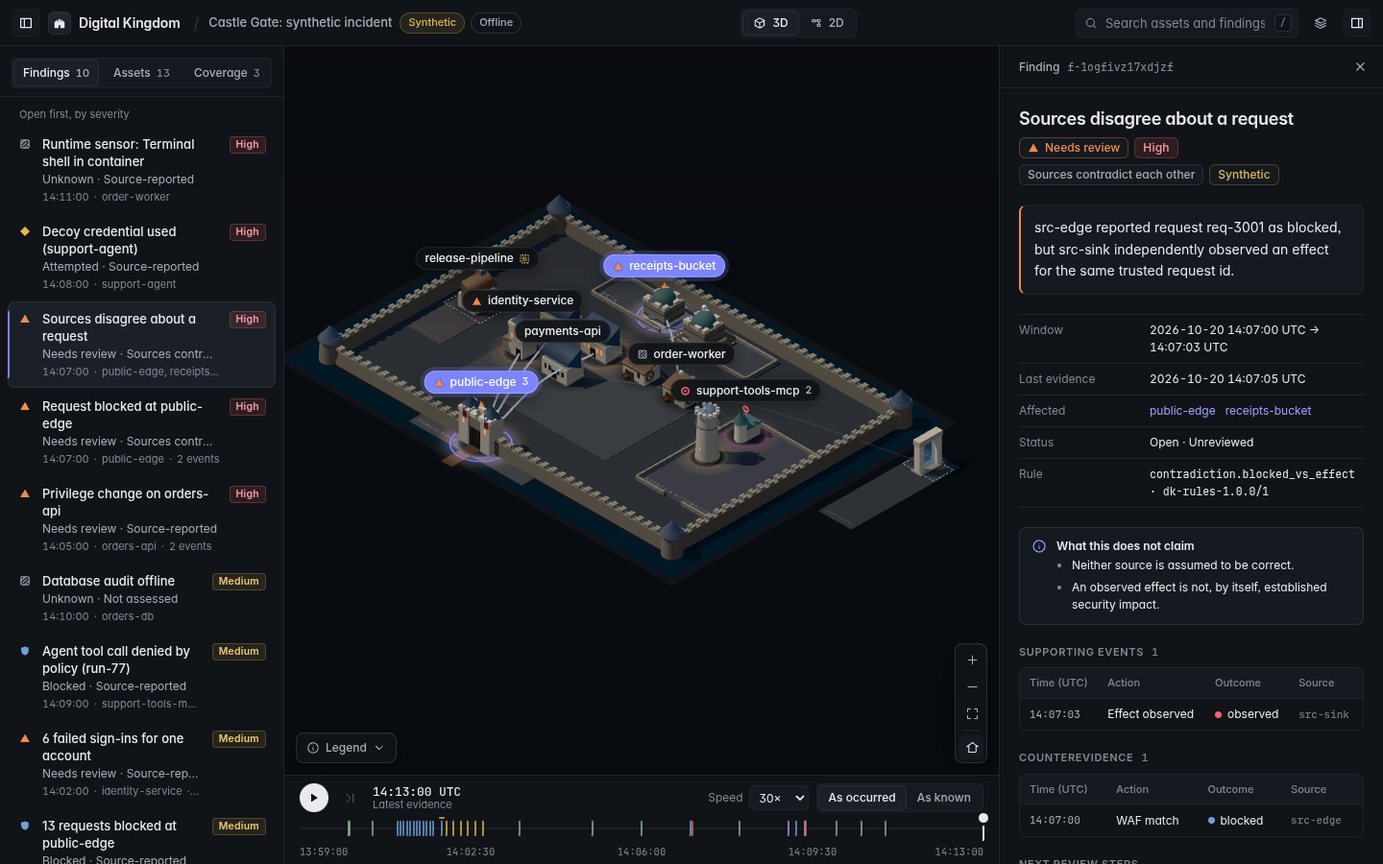
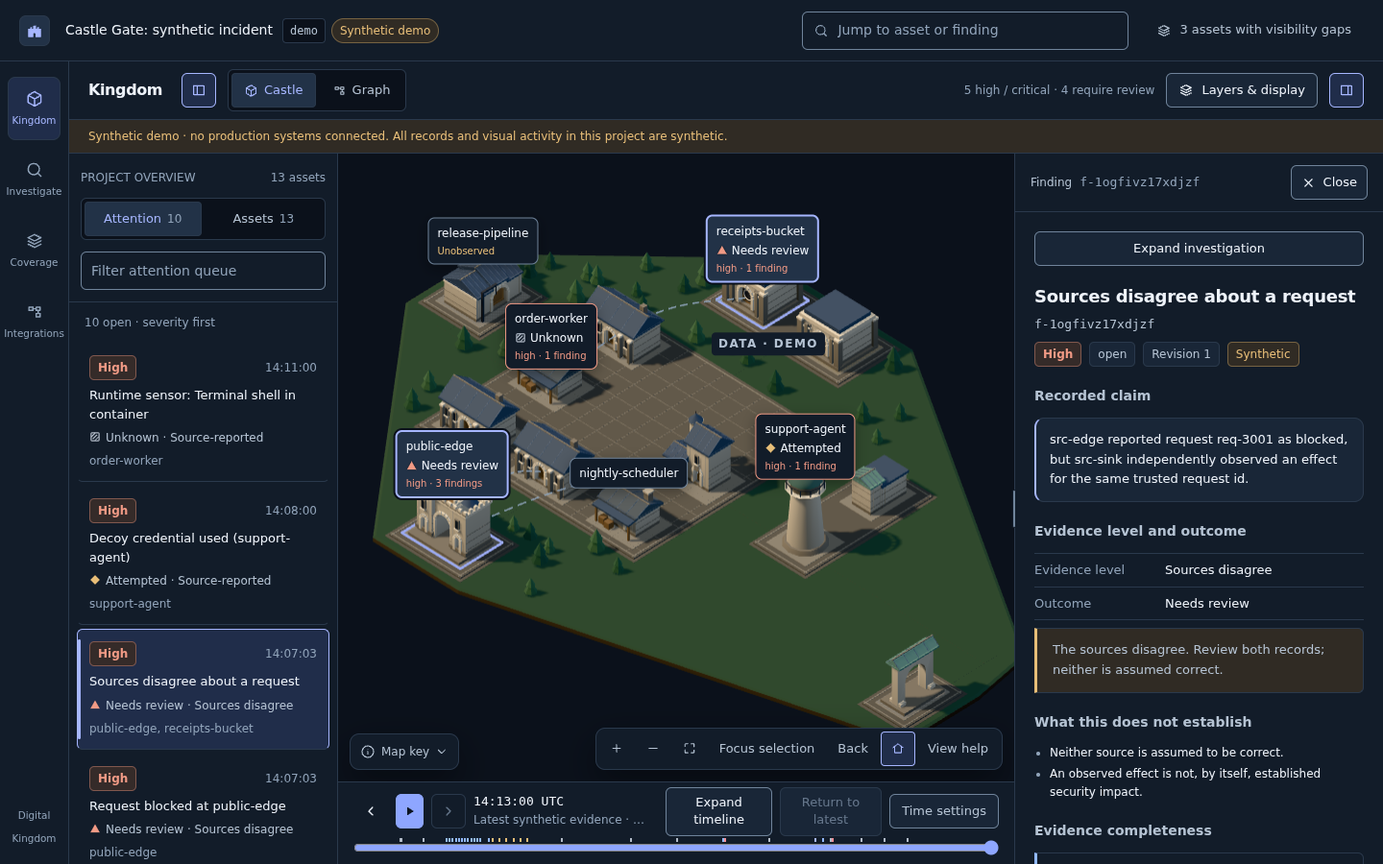
castle: visual refresh (crenellated gatehouse, turret, buttresses, palette, contact shading, lawn island, trees, lighting), compact camera tools, manifest script; README/CHANGELOG and screenshots updated

diff --git a/apps/web/src/castle/geometry.ts b/apps/web/src/castle/geometry.ts
@@ -5,7 +5,11 @@ import { MODULE_CATALOG, type ModuleId } from "@dk/contracts";
 export type DetailLevel = "low" | "medium" | "high";
 export type ArchitectureGroup = "structure" | "roof" | "interior-structure" | "detail-static";
 type V3 = [number, number, number];
-const STONE = "#C5C0B5", EDGE = "#D8D1C2", BASE = "#8F9395", ROOF = "#465769", IRON = "#444A52", WOOD = "#81715D", DARK = "#39414A", BRONZE = "#718C8B";
+const STONE = "#CEC5B2", EDGE = "#E2D8C3", BASE = "#8E877A", ROOF = "#4B5B70", SEAM = "#61728A", IRON = "#3E434A", WOOD = "#8A6E50", DARK = "#2C3540", BRONZE = "#6F948A";
+/** Deterministic, status-independent tonal variation: a ±4% per-part shift (masonry courses, roof
+ * slates) and a baked ground-contact darkening so buildings sit on the terrace instead of floating. */
+const tone = (i: number) => { const x = Math.sin(i * 12.9898 + 78.233) * 43758.5453; return 0.96 + (x - Math.floor(x)) * 0.08; };
+const contact = (y: number) => 0.74 + 0.26 * Math.min(1, Math.max(0, y / 1.1));
 export interface ModuleGeometry { groups: Partial<Record<ArchitectureGroup, THREE.BufferGeometry>>; bounds: THREE.Box3; triangles: number; }
 
 /** Original editable architectural construction. Each group is merged, with vertex colour variation,
@@ -13,6 +17,7 @@ export interface ModuleGeometry { groups: Partial<Record<ArchitectureGroup, THRE
  * is bounded by the ten known IDs × three LODs and shared for the application lifetime. */
 class Builder {
   parts: Record<ArchitectureGroup, THREE.BufferGeometry[]> = { structure: [], roof: [], "interior-structure": [], "detail-static": [] };
+  private serial = 0;
   constructor(readonly lod: DetailLevel) {}
   get segments() { return this.lod === "high" ? 24 : this.lod === "medium" ? 12 : 6; }
   add(g: THREE.BufferGeometry, color: string, p: V3 = [0, 0, 0], group: ArchitectureGroup = "structure", r: V3 = [0, 0, 0]) {
@@ -21,8 +26,8 @@ class Builder {
     geo.deleteAttribute("uv");
     const mat = new THREE.Matrix4().compose(new THREE.Vector3(...p), new THREE.Quaternion().setFromEuler(new THREE.Euler(...r)), new THREE.Vector3(1, 1, 1));
     geo.applyMatrix4(mat);
-    const c = new THREE.Color(color), n = geo.getAttribute("position").count, colors = new Float32Array(n * 3);
-    for (let i = 0; i < n; i++) { colors[i * 3] = c.r; colors[i * 3 + 1] = c.g; colors[i * 3 + 2] = c.b; }
+    const c = new THREE.Color(color).multiplyScalar(tone(++this.serial)), pos = geo.getAttribute("position"), n = pos.count, colors = new Float32Array(n * 3);
+    for (let i = 0; i < n; i++) { const k = contact(pos.getY(i)); colors[i * 3] = c.r * k; colors[i * 3 + 1] = c.g * k; colors[i * 3 + 2] = c.b * k; }
     geo.setAttribute("color", new THREE.BufferAttribute(colors, 3));
     this.parts[group].push(geo);
   }
@@ -79,9 +84,29 @@ class Builder {
       for (const side of [-1, 1]) {
         this.box([w + 0.08, 0.07, 0.07], [p[0], p[1] + rise, p[2]], BASE, "roof");
         const count = this.lod === "high" ? Math.ceil(w / 0.32) : 4;
-        for (let i = 0; i <= count; i++) this.box([0.025, 0.025, length], [p[0] - w / 2 + i * w / count, p[1] + rise / 2 + 0.025, p[2] + side * d / 4], "#607182", "roof", [side * angle, 0, 0]);
+        for (let i = 0; i <= count; i++) this.box([0.025, 0.025, length], [p[0] - w / 2 + i * w / count, p[1] + rise / 2 + 0.025, p[2] + side * d / 4], SEAM, "roof", [side * angle, 0, 0]);
       }
     }
+  }
+  /** Crenellated parapet on a rectangle's perimeter: merlons at medium/high, one band at low. */
+  parapet(cx: number, cz: number, w: number, d: number, y: number, h = 0.24, t = 0.16, color = EDGE) {
+    if (this.lod === "low") {
+      for (const z of [-1, 1]) this.box([w, h * 0.6, t], [cx, y + h * 0.3, cz + z * (d / 2 - t / 2)], color, "detail-static");
+      for (const x of [-1, 1]) this.box([t, h * 0.6, d - 2 * t], [cx + x * (w / 2 - t / 2), y + h * 0.3, cz], color, "detail-static");
+      return;
+    }
+    const step = 0.34, mw = 0.19;
+    for (const z of [-1, 1]) { const n = Math.max(2, Math.round(w / step)); for (let i = 0; i < n; i++)
+      this.box([mw, h, t], [cx - w / 2 + mw / 2 + i * (w - mw) / (n - 1), y + h / 2, cz + z * (d / 2 - t / 2)], color, "detail-static"); }
+    for (const x of [-1, 1]) { const n = Math.max(2, Math.round(d / step)); for (let i = 1; i < n - 1; i++)
+      this.box([t, h, mw], [cx + x * (w / 2 - t / 2), y + h / 2, cz - d / 2 + mw / 2 + i * (d - mw) / (n - 1)], color, "detail-static"); }
+    // Continuous wall-walk band under the merlons.
+    for (const z of [-1, 1]) this.box([w, 0.08, t + 0.04], [cx, y + 0.04, cz + z * (d / 2 - t / 2)], BASE, "detail-static");
+  }
+  /** Pyramidal (4 sides) or conical spire roof with a short finial. */
+  spire(r: number, h: number, p: V3, sides = 4, color = ROOF) {
+    this.add(new THREE.ConeGeometry(r, h, sides, 1), color, [p[0], p[1] + h / 2, p[2]], "roof", [0, sides === 4 ? Math.PI / 4 : 0, 0]);
+    if (this.lod !== "low") this.cylinder(0.025, 0.025, 0.16, [p[0], p[1] + h + 0.06, p[2]], IRON, "roof", [0, 0, 0], 5);
   }
   window(x: number, y: number, z: number, w = 0.19, h = 0.42) {
     if (this.lod === "low") return;
@@ -103,15 +128,20 @@ class Builder {
 function gatehouse(b: Builder) {
   b.box([3.8, 0.18, 2.6], [0, 0.09, 0.1], BASE);
   for (const x of [-1.26, 1.26]) {
-    b.hall(1.12, 1.85, 2.9, [x, 0.18, -0.1], 0.3);
+    b.hall(1.12, 1.85, 2.7, [x, 0.18, -0.1], 0.3);
     b.box([1.25, 0.2, 1.98], [x, 0.4, -0.1], BASE);
-    b.gable(1.34, 2.06, 0.78, [x, 3.08, -0.1]);
-    b.window(x, 2.24, 0.87, 0.18, 0.53);
+    // Corbelled crown, crenellated parapet and a slate spire set inside the wall-walk.
+    for (const z of [-1, 1]) b.box([1.3, 0.12, 0.2], [x, 2.94, -0.1 + z * 0.915], EDGE);
+    for (const sx of [-1, 1]) b.box([0.2, 0.12, 1.63], [x + sx * 0.55, 2.94, -0.1], EDGE);
+    b.parapet(x, -0.1, 1.3, 2.03, 3.0, 0.24, 0.15);
+    b.spire(0.52, 0.74, [x, 3.0, -0.1]);
+    b.window(x, 2.12, 0.87, 0.18, 0.53);
   }
-  b.arch(1.45, 2.55, 1.3, 1.1, 1.2, [0, 0.18, -0.7]);
+  b.arch(1.45, 2.45, 1.3, 1.1, 1.2, [0, 0.18, -0.7]);
   b.archTrim(1.1, 1.2, [0, 0.18, 0.66]);
-  b.box([1.55, 0.18, 1.55], [0, 2.82, -0.05], EDGE);
-  b.gable(1.65, 1.65, 0.5, [0, 2.96, -0.05]);
+  b.box([1.55, 0.14, 1.45], [0, 2.7, -0.05], EDGE);
+  b.parapet(0, -0.05, 1.55, 1.45, 2.77, 0.22, 0.14);
+  b.box([1.2, 0.05, 1.1], [0, 2.795, -0.05], WOOD, "roof");
   if (b.lod !== "low") {
     for (const x of [-0.42, -0.21, 0, 0.21, 0.42]) b.box([0.035, 1.35, 0.05], [x, 1.16, -0.3], IRON, "detail-static");
     for (const y of [0.65, 1.12, 1.6]) b.box([1.04, 0.045, 0.05], [0, y, -0.3], IRON, "detail-static");
@@ -164,7 +194,13 @@ function build(id: ModuleId, lod: DetailLevel): ModuleGeometry {
     case "guardhouse": {
       b.hall(1.6, 1.65, 2.5, [0.38, 0, -0.2], 0.48); b.gable(1.85, 1.9, 0.75, [0.38, 2.52, -0.2]);
       b.hall(1.15, 1.6, 1.3, [-0.95, 0, 0.35], 0.38); b.gable(1.32, 1.8, 0.42, [-0.95, 1.32, 0.35]);
-      b.window(0.38, 1.78, 0.68, 0.15, 0.48); b.box([0.34, 0.3, 0.07], [0.38, 1.2, 0.7], BASE, "detail-static"); break;
+      b.window(0.38, 1.78, 0.68, 0.15, 0.48); b.box([0.34, 0.3, 0.07], [0.38, 1.2, 0.7], BASE, "detail-static");
+      // Round corner turret with a conical roof: the identity watchtower silhouette.
+      b.cylinder(0.4, 0.44, 0.16, [-1.2, 0.08, -0.82], BASE);
+      b.cylinder(0.34, 0.38, 2.45, [-1.2, 1.385, -0.82]);
+      b.cylinder(0.41, 0.36, 0.14, [-1.2, 2.67, -0.82], EDGE);
+      b.spire(0.42, 0.45, [-1.2, 2.74, -0.82], b.segments);
+      if (lod !== "low") for (const y of [1.0, 1.8]) b.box([0.05, 0.26, 0.09], [-0.835, y, -0.82], DARK, "detail-static"); break;
     }
     case "workshop": {
       b.hall(2.6, 1.8, 1.3, [-0.1, 0, -0.2], 0.95); b.gable(2.85, 2.08, 0.48, [-0.1, 1.32, -0.2], "#56616B");
@@ -176,6 +212,8 @@ function build(id: ModuleId, lod: DetailLevel): ModuleGeometry {
     case "vault": {
       b.box([3.1, 0.22, 3.0], [0, 0.11, 0], BASE); b.hall(2.8, 2.5, 1.85, [0, 0.22, 0], 0.92);
       b.box([3.0, 0.25, 2.7], [0, 2.12, 0], EDGE, "roof"); b.box([2.65, 0.27, 2.35], [0, 2.36, 0], ROOF, "roof");
+      // Battered corner buttresses read as heavy, protected masonry.
+      for (const x of [-1.38, 1.38]) for (const z of [-1.32, 1.32]) { b.box([0.34, 1.7, 0.34], [x, 1.07, z], BASE); b.box([0.38, 0.12, 0.38], [x, 1.98, z], EDGE); }
       b.cylinder(0.43, 0.43, 0.1, [0, 0.98, 1.01], IRON, "interior-structure", [Math.PI / 2, 0, 0]);
       // Neutral schematic storage bays, not records, contents, or a security-state claim.
       // The central aisle remains open from the cutaway to the existing interior floor.

diff --git a/apps/web/src/castle/Environment.tsx b/apps/web/src/castle/Environment.tsx
@@ -6,18 +6,53 @@ import type { CompiledScene } from "@dk/contracts";
 import { useLabel } from "./labels.tsx";
 import type { PresentationGroup } from "./scenePresentation.ts";
 
-/** Local, nonselectable organizational terraces. No moat, control wall or inferred security perimeter. */
+const LAWN = new THREE.Color("#3C5243"), LAWN_HC = new THREE.Color("#52705A"), EARTH = new THREE.Color("#4A3F33");
+const CANOPY = ["#3F5E49", "#4B6A50", "#365444"].map(c => new THREE.Color(c)), TRUNK = new THREE.Color("#5A4634");
+/** Deterministic hash in [0, 1): decoration placement never depends on time, events or randomness. */
+const hash = (a: number, b: number) => { const x = Math.sin(a * 127.1 + b * 311.7) * 43758.5453; return x - Math.floor(x); };
+function paint(g: THREE.BufferGeometry, color: (normalY: number, y: number) => THREE.Color) {
+  const n = g.getAttribute("normal"), p = g.getAttribute("position"), out = new Float32Array(p.count * 3);
+  for (let i = 0; i < p.count; i++) { const c = color(n.getY(i), p.getY(i)); out[i * 3] = c.r; out[i * 3 + 1] = c.g; out[i * 3 + 2] = c.b; }
+  g.setAttribute("color", new THREE.BufferAttribute(out, 3)); return g;
+}
+
+/** Local, nonselectable organizational terraces on a lawn island. No moat, control wall or inferred
+ * security perimeter: trees are scattered decoration placed only outside every district's bounds. */
 export function Environment({ scene, groups, highContrast, quality = "medium" }: { scene: CompiledScene; groups: PresentationGroup[]; highContrast: boolean; quality?: "low" | "medium" | "high" }) {
   const geo = useMemo(() => {
-    const foundations: THREE.BufferGeometry[] = [], paving: THREE.BufferGeometry[] = [], trim: THREE.BufferGeometry[] = [];
+    const foundations: THREE.BufferGeometry[] = [], paving: THREE.BufferGeometry[] = [], trim: THREE.BufferGeometry[] = [], trees: THREE.BufferGeometry[] = [];
     const box = (s: [number, number, number], p: [number, number, number], to: THREE.BufferGeometry[]) => { const g = new THREE.BoxGeometry(...s); g.translate(...p); to.push(g); };
     // A shallow, chamfered base follows the occupied campus silhouette, not an enormous empty rectangle.
     for (const environment of new Set(groups.map(g => g.environment))) {
       const points = groups.filter(g => g.environment === environment).flatMap(g => g.rooms.flatMap(r => [-1, 1].flatMap(x => [-1, 1].map(z => [r.position.x + x * (r.footprint.w / 2 + 1.15), r.position.z + z * (r.footprint.d / 2 + 1.15)] as [number, number]))));
+      // The lawn also covers the paved connectors between districts, so no path overhangs the edge.
+      { const ds = groups.filter(g => g.environment === environment), c = ds.find(g => g.zoneId === "application") ?? ds[0];
+        if (c) { const cx = (c.bounds.minX + c.bounds.maxX) / 2, cz = (c.bounds.minZ + c.bounds.maxZ) / 2;
+          for (const g of ds) { const x = (g.bounds.minX + g.bounds.maxX) / 2, z = (g.bounds.minZ + g.bounds.maxZ) / 2;
+            for (const [px, pz] of [[x, cz], [cx, cz], [x, z]] as [number, number][]) for (const dx of [-1.4, 1.4]) for (const dz of [-1.4, 1.4]) points.push([px + dx, pz + dz]); } } }
       const hull = convexHull(points); if (hull.length < 3) continue;
       const shape = new THREE.Shape(hull.map(([x, z]) => new THREE.Vector2(x, -z)));
       const slab = new THREE.ExtrudeGeometry(shape, { depth: 0.26, bevelEnabled: quality !== "low", bevelSegments: 1, bevelSize: 0.16, bevelThickness: 0.08, steps: 1 });
-      slab.rotateX(-Math.PI / 2); slab.translate(0, -0.4, 0); foundations.push(slab);
+      slab.rotateX(-Math.PI / 2); slab.translate(0, -0.4, 0); slab.deleteAttribute("uv");
+      // Lawn on top, banded earth on the chamfered sides.
+      foundations.push(paint(slab.index ? slab.toNonIndexed() : slab, (ny, y) => ny > 0.6 ? (highContrast ? LAWN_HC : LAWN) : EARTH.clone().multiplyScalar(0.8 + 0.25 * Math.min(1, Math.max(0, (y + 0.4) / 0.35)))));
+      if (quality !== "low") {
+        const districtsHere = groups.filter(g => g.environment === environment), xs = hull.map(h => h[0]), zs = hull.map(h => h[1]);
+        const inside = (x: number, z: number) => hull.every((a, i) => { const b = hull[(i + 1) % hull.length]!; return (b[0] - a[0]) * (z - a[1]) - (b[1] - a[1]) * (x - a[0]) >= 0.55 * Math.hypot(b[0] - a[0], b[1] - a[1]); });
+        const clear = (x: number, z: number) => districtsHere.every(g => x < g.bounds.minX - 0.75 || x > g.bounds.maxX + 0.75 || z < g.bounds.minZ - 0.75 || z > g.bounds.maxZ + 0.75);
+        const minX = Math.min(...xs), maxX = Math.max(...xs), minZ = Math.min(...zs), maxZ = Math.max(...zs);
+        let placed = 0;
+        for (let gx = minX; gx <= maxX && placed < 34; gx += 1.6) for (let gz = minZ; gz <= maxZ && placed < 34; gz += 1.6) {
+          const x = gx + (hash(gx, gz) - 0.5) * 1.1, z = gz + (hash(gz, gx) - 0.5) * 1.1;
+          if (hash(x, z) < 0.55 || !inside(x, z) || !clear(x, z)) continue;
+          const s = 0.75 + hash(z, x) * 0.5, canopy = CANOPY[Math.floor(hash(x + 1, z) * CANOPY.length)]!;
+          const trunk = new THREE.CylinderGeometry(0.06 * s, 0.08 * s, 0.34 * s, 5); trunk.translate(x, -0.12 + 0.17 * s, z);
+          const lower = new THREE.ConeGeometry(0.42 * s, 0.78 * s, 7); lower.translate(x, -0.12 + 0.62 * s, z);
+          const upper = new THREE.ConeGeometry(0.3 * s, 0.6 * s, 7); upper.translate(x, -0.12 + 1.0 * s, z);
+          trees.push(paint(trunk.toNonIndexed(), () => TRUNK), paint(lower.toNonIndexed(), (_ny, y) => canopy.clone().multiplyScalar(0.85 + 0.15 * (y - (-0.12 + 0.23 * s)) / (0.78 * s))), paint(upper.toNonIndexed(), () => canopy.clone().multiplyScalar(1.08)));
+          [trunk, lower, upper].forEach(g => g.dispose()); placed++;
+        }
+      }
       const districts = groups.filter(g => g.environment === environment), centre = districts.find(g => g.zoneId === "application") ?? districts[0];
       if (centre) { const cx = (centre.bounds.minX + centre.bounds.maxX) / 2, cz = (centre.bounds.minZ + centre.bounds.maxZ) / 2;
         for (const g of districts) { const x = (g.bounds.minX + g.bounds.maxX) / 2, z = (g.bounds.minZ + g.bounds.maxZ) / 2;
@@ -44,14 +79,16 @@ export function Environment({ scene, groups, highContrast, quality = "medium" }:
         box([room.footprint.w + 0.35, 0.04, room.footprint.d + 0.35], [room.position.x, 0.05, room.position.z], trim);
       }
     }
-    const joined = [paving, trim, foundations].map(parts => { const g = parts.length ? mergeGeometries(parts, false)! : new THREE.BufferGeometry(); parts.forEach(p => p.dispose()); return g; });
+    for (const parts of [paving, trim]) parts.forEach((g, i) => { const flat = g.index ? g.toNonIndexed() : g; if (flat !== g) g.dispose(); flat.deleteAttribute("uv"); parts[i] = flat; });
+    const joined = [paving, trim, foundations, trees].map(parts => { const g = parts.length ? mergeGeometries(parts, false)! : new THREE.BufferGeometry(); parts.forEach(p => p.dispose()); return g; });
     return joined;
-  }, [groups, quality]);
+  }, [groups, quality, highContrast]);
   useEffect(() => () => geo.forEach(g => g.dispose()), [geo]);
   return <group name="presentation-decoration" raycast={() => null}>
-    <mesh geometry={geo[2]} receiveShadow raycast={() => null}><meshStandardMaterial color={highContrast ? "#263343" : "#182331"} roughness={1} /></mesh>
-    <mesh geometry={geo[0]} receiveShadow raycast={() => null}><meshStandardMaterial color="#344252" roughness={0.97} /></mesh>
-    <mesh geometry={geo[1]} receiveShadow raycast={() => null}><meshStandardMaterial color="#59636A" roughness={0.95} /></mesh>
+    <mesh geometry={geo[2]} receiveShadow raycast={() => null}><meshStandardMaterial vertexColors roughness={1} /></mesh>
+    <mesh geometry={geo[0]} receiveShadow raycast={() => null}><meshStandardMaterial color={highContrast ? "#7A7F80" : "#625F58"} roughness={0.95} /></mesh>
+    <mesh geometry={geo[1]} receiveShadow raycast={() => null}><meshStandardMaterial color="#8A857A" roughness={0.92} /></mesh>
+    {geo[3]!.getAttribute("position") && <mesh geometry={geo[3]} castShadow receiveShadow raycast={() => null}><meshStandardMaterial vertexColors roughness={0.9} flatShading /></mesh>}
     {groups.map(g => <ZoneLabel key={g.key} group={g} />)}
   </group>;
 }

diff --git a/scripts/update-castle-manifest.ts b/scripts/update-castle-manifest.ts
@@ -1,0 +1,26 @@
+/** Regenerates assets/castle-kit/MANIFEST.json provenance hashes, LOD triangle counts and bounds
+ * from the procedural source. Run after editing any editable castle source: `pnpm castle:manifest`. */
+import { createHash } from "node:crypto";
+import { readFileSync, writeFileSync } from "node:fs";
+import { moduleGeometry, type DetailLevel } from "../apps/web/src/castle/geometry.ts";
+import type { ModuleId } from "../packages/contracts/src/index.ts";
+
+const path = new URL("../assets/castle-kit/MANIFEST.json", import.meta.url), root = new URL("../", import.meta.url);
+const manifest = JSON.parse(readFileSync(path, "utf8"));
+const digest = createHash("sha256");
+manifest.provenance.source_files = (manifest.provenance.editable_source_paths as string[]).map(p => {
+  const bytes = readFileSync(new URL(p, root));
+  digest.update(p + "\0").update(bytes).update("\0");
+  return { path: p, sha256: createHash("sha256").update(bytes).digest("hex") };
+});
+manifest.provenance.content_hash = "sha256:" + digest.digest("hex");
+// Mirrors the palette constants in geometry.ts (status never changes these colours).
+manifest.materials = { stone: "#CEC5B2", stone_edge: "#E2D8C3", stone_base: "#8E877A", roof: "#4B5B70", roof_seam: "#61728A", iron: "#3E434A", timber: "#8A6E50", dark_recess: "#2C3540", bronze: "#6F948A",
+  tonal_variation: "deterministic ±4% per part plus baked ground-contact darkening", status_geometry_independent: true };
+for (const m of manifest.modules as { id: ModuleId; lods: Record<DetailLevel, { triangles: number; meshes: number; bounds: { min: number[]; max: number[] } }> }[])
+  for (const lod of ["low", "medium", "high"] as DetailLevel[]) {
+    const g = moduleGeometry(m.id, lod);
+    m.lods[lod] = { triangles: g.triangles, meshes: Object.keys(g.groups).length, bounds: { min: g.bounds.min.toArray(), max: g.bounds.max.toArray() } };
+  }
+writeFileSync(path, JSON.stringify(manifest, null, 2) + "\n");
+console.log("castle manifest updated", manifest.provenance.content_hash);

diff --git a/apps/web/src/castle/Castle3D.tsx b/apps/web/src/castle/Castle3D.tsx
@@ -206,10 +206,10 @@ function Lights({ scene, quality }: { scene: CompiledScene; quality: DetailLevel
   const span = Math.max(scene.bounds.maxX - scene.bounds.minX, scene.bounds.maxZ - scene.bounds.minZ) / 2 + 6;
   const key = useRef<THREE.DirectionalLight>(null);
   useEffect(() => { if (key.current) { key.current.target.position.set(cx, 0, cz); key.current.target.updateMatrixWorld(); } }, [cx, cz]);
-  return <><hemisphereLight args={["#E7EFF9", "#4D453A", 1.65]} />
-    <directionalLight ref={key} position={[cx - 30, 50, cz + 32]} intensity={3.1} color="#FFF1DA" castShadow={quality !== "low"} shadow-mapSize={quality === "high" ? [2048, 2048] : [1024, 1024]} shadow-bias={-0.0003} shadow-normalBias={0.04} shadow-radius={3}
+  return <><hemisphereLight args={["#DCE7F4", "#3D3529", 1.45]} />
+    <directionalLight ref={key} position={[cx - 30, 50, cz + 32]} intensity={3.3} color="#FFE7C7" castShadow={quality !== "low"} shadow-mapSize={quality === "high" ? [2048, 2048] : [1024, 1024]} shadow-bias={-0.0003} shadow-normalBias={0.04} shadow-radius={3}
       shadow-camera-left={-span} shadow-camera-right={span} shadow-camera-top={span} shadow-camera-bottom={-span} shadow-camera-near={1} shadow-camera-far={200} />
-    <directionalLight position={[cx + 24, 16, cz - 30]} intensity={1.1} color="#AAC9EF" />
+    <directionalLight position={[cx + 24, 16, cz - 30]} intensity={0.95} color="#9FC0EA" />
   </>;
 }
 function Room({ room, selected, quality }: { room: SceneRoom; selected: boolean; quality: DetailLevel }) {

diff --git a/apps/web/src/styles/workspaces.css b/apps/web/src/styles/workspaces.css
@@ -270,3 +270,8 @@
   .topbar .header-auth .btn { min-height:44px; white-space:nowrap; }
   .topbar .header-search { grid-column:1/-1; grid-row:2; width:100%; min-width:0; }
 }
+/* Camera tools sit in one compact row so the castle or graph is not covered by a tall column. */
+.castle-wrap .stage-tools, .graph-wrap .stage-tools { flex-direction:row; flex-wrap:wrap; align-items:center; justify-content:flex-end; max-width:calc(100% - 180px); }
+.castle-wrap .stage-tools button, .graph-wrap .stage-tools button { white-space:nowrap; }
+.graph-wrap .stage-tools .vr-h { width:1px; height:20px; margin:0 3px; }
+.graph-wrap #graph-view-controls:not([hidden]) { display:flex; flex-direction:row; flex-wrap:wrap; align-items:center; gap:2px; }

diff --git a/README.md b/README.md
@@ -2,17 +2,21 @@
 
 **A self-hosted security evidence console for small software teams, rendered as a navigable castle, and an MCP layer so AI agents can see the same evidence.**
 
-Every service, database, worker, AI agent and tool server becomes a room in an isometric castle. Blocked probes, failed sign-ins, privilege changes, decoy-credential use, agent tool calls, observed side effects and lost telemetry show up on the right room, on a matching 2D graph, on a replayable timeline, and in an evidence pane that says exactly what is known, what is not, and what is *not* being claimed.
+Every service, database, worker, AI agent and tool server becomes a building in a 3D castle town: gatehouses, halls, vaults and an observatory laid out on paved terraces, one terrace per zone. Blocked probes, failed sign-ins, privilege changes, decoy-credential use, agent tool calls, observed side effects and lost telemetry show up on the right room, on a matching 2D graph, on a replayable timeline, and in an evidence pane that says exactly what is known, what is not, and what is *not* being claimed.
 
 The castle is the human interface. **[Digital Kingdom MCP](#digital-kingdom-mcp-the-agent-interface)** is the agent interface. Both read one security engine.
 
-![Castle view with a contradiction finding selected](docs/img/castle-finding.png)
+![Kingdom view: the synthetic demo castle with findings labelled on the affected buildings](docs/img/castle-overview.png)
 
-| 2D graph (same evidence, same selection) | Historical replay ("as occurred" vs "as known") |
+| Finding selected (castle + evidence inspector) | 2D graph (same evidence, same selection) |
 |---|---|
-| ![2D graph](docs/img/graph-2d.png) | ![Replay](docs/img/replay.png) |
+| ![Castle view with a contradiction finding selected](docs/img/castle-finding.png) | ![2D graph](docs/img/graph-2d.png) |
 
-> **Status: v0.3.2 alpha.** Suitable for a fresh-database, isolated non-production pilot with controlled data. Not production-certified. See [CHANGELOG.md](CHANGELOG.md).
+| Historical replay with expanded timeline lanes |
+|---|
+| ![Replay](docs/img/replay.png) |
+
+> **Status: v0.3.2 alpha, plus the unreleased work on `main`** (interface redesign, castle refresh, event investigation, change assessment v2; see the changelog). Suitable for a fresh-database, isolated non-production pilot with controlled data. Not production-certified. See [CHANGELOG.md](CHANGELOG.md).
 >
 > **Scope:** It ingests, stores, correlates, renders and replays real events from local sources and adapters, with a full synthetic demo. It is **not** a SIEM, an EDR, a WAF, a compliance product, or an autonomous responder, and it does not execute remediation. See [Known limitations](#known-limitations).
 
@@ -39,23 +43,37 @@ Other ways to run it:
 | Docker (localhost-bound, non-root, read-only rootfs) | `docker compose -f infra/compose/docker-compose.yml up --build` |
 | Everything CI runs | `pnpm check && pnpm build` |
 
-Keyboard: `/` search, `2` 2D graph, `3` castle, `Space` play or pause replay, `←/→` scrub on the timeline (Shift = 1 minute), `R` roofs, `0` reset camera, `Esc` clear selection.
+Keyboard: `/` search, `2` graph, `3` castle, `[` and `]` toggle the list and inspector, `Esc` close a menu or clear the selection. With the castle or graph focused: `+` and `-` zoom, `0` fit, `f` focus the selection. The timeline slider takes arrow keys.
+
+## The workspaces
+
+| Workspace | What it is for |
+|---|---|
+| **Kingdom** | The castle and the 2D graph of the same assets, with an attention queue. Selecting never moves the camera; **Focus selection** does, and **Back** returns. Roofs, relationship layers, hypothetical paths and render quality are toggled from the camera toolbar and *Layers & display*. |
+| **Investigate** | The finding queue with an expandable evidence view (supporting and counter-evidence, both timestamps, redaction, completeness), plus server-side event search that includes events no finding references. |
+| **Coverage** | Which sources report, which are stale, disabled or unassessed, and which assets have partial or no telemetry. Unknown is never shown as healthy. |
+| **Integrations** | SDK, OTLP, Falco and MCP setup guidance and manifest or Compose import with field-level validation. Nothing is marked connected until real events arrive. |
+| **Timeline** | Latest vs. replay, *as occurred* vs. *as known*, and expanded record lanes. Replay states which graph revision it uses and that coverage and notes are current, not historical. |
 
 ## What you're looking at
 
 | Castle element | System meaning |
 |---|---|
-| Gatehouse (in the curtain wall) | Edge gateway, reverse proxy, WAF |
-| Guardhouse | Authentication / identity |
-| Hall / Great hall | Logical application service (replicas are grouped, never one room per pod) |
+| Gatehouse (two crenellated towers and an open gate) | Edge gateway, reverse proxy, WAF |
+| Guardhouse (with a round watch turret) | Authentication / identity |
+| Hall / Great hall | Logical application service (replicas are grouped, never one building per pod) |
 | Workshop | Worker, queue consumer, scheduler |
-| Vault | Database or storage |
-| Observatory | AI agent runtime |
+| Vault (buttressed, flat-roofed) | Database or storage |
+| Observatory (domed tower) | AI agent runtime |
 | Tool annex | Agent tool / MCP server |
 | Forge | Build and deployment pipeline |
-| Portal (across the moat) | Third-party service; its interior is never shown |
-| Hatched ground with **?** | Coverage gap: missing telemetry is **unknown, never safe** |
-| Dashed path | Inferred or hypothetical relationship, not observed |
+| Portal (a freestanding arch) | Third-party service; its interior is never shown |
+| Paved terrace with a zone label | Organizational zone (Public edge, Application, Data, Agents & automation, …). Presentation only, **not** a security boundary |
+| Lawn and trees | Decoration only. They carry no meaning and can't be selected |
+| Hatched ground under a building | Partial or missing coverage: missing telemetry is **unknown, never safe** |
+| Dashed path | Declared, inferred or hypothetical relationship, not observed traffic (hypothetical paths are off by default) |
+
+Building colours never change with status. Status lives on the label: shape + word + colour, plus the severity border.
 
 Every status is a **shape + word + color**, never color alone: ▣ Blocked, ◆ Attempted, ▲ Needs review, ◎ Observed effect, □ Refused (model declined, which is not enforcement), ▨ Unknown.
 
@@ -159,7 +177,7 @@ Details: [SECURITY.md](SECURITY.md) and [docs/THREAT_MODEL.md](docs/THREAT_MODEL
 
 ## Verification
 
-`pnpm check` runs typecheck, **141 tests**, and fixture validation. Highlights, mapped to the blueprint's acceptance suite ([docs/VERIFICATION.md](docs/VERIFICATION.md)):
+`pnpm check` runs typecheck, **376 tests** (43 files), and fixture validation. CI also runs two Playwright browser suites against the built UI: the controlled pilot (`pnpm pilot`) and the redesign acceptance suite (`pnpm pilot:redesign`). Highlights, mapped to the blueprint's acceptance suite ([docs/VERIFICATION.md](docs/VERIFICATION.md)):
 
 - Evidence E01–E12: dedupe, distinct ids, no IP-only linking, untrusted request ids, blocked ≠ compromise, HTTP 200 ≠ exploit, coverage gaps, contradiction with counterevidence, late-event revision, decoy semantics, temporal topology.
 - Durability O01/O02/O06: restart without loss, crash mid-batch rolls back and recovers idempotently, SSE resume and resync.
@@ -169,7 +187,7 @@ Details: [SECURITY.md](SECURITY.md) and [docs/THREAT_MODEL.md](docs/THREAT_MODEL
 - MCP: an MCP client drives the real server and gets the same findings as the castle; viewer agents cannot propose containment.
 - Trustworthiness (v0.3): planted secrets never reach disk; unknown, missing-graph, mixed and failed lookups never get a favorable posture; out-of-scope source assertions are rejected; relayed reports don't corroborate themselves; a finding's evidence survives 5,100 later events, more than 50 records, truncation and a deleted record, with incompleteness explicit in MCP, UI and exports; OTLP success, gzip, partial success, empty, invalid, wrong-encoding, gzip-bomb and retry cases.
 
-The UI was exercised in headless Chromium (SwiftShader WebGL); screenshots above are from that run.
+The screenshots above are from the offline synthetic demo (`VITE_DK_STATIC_DEMO=1`) in headless Chromium with SwiftShader WebGL at 1440×900.
 
 ## Known limitations
 
@@ -178,7 +196,7 @@ The UI was exercised in headless Chromium (SwiftShader WebGL); screenshots above
 - Adapters: generic events, Node SDK, Falco HTTP output, OTLP/HTTP JSON (sampled context only; no protobuf; not yet run against a Collector binary). No cloud-audit, Cloudflare, or Postgres pgAudit adapters yet.
 - Snapshot views load the latest 5,000 events; older findings fetch their own evidence on demand and say when a view is incomplete.
 - Containment decisions prove distinct human-typed tokens, not distinct people.
-- Castle art is an original procedural kit (Apache-2.0). It is readable, not bespoke artwork; LOD, instancing beyond merged parapets, and per-device performance budgets are not yet measured on real hardware.
+- Castle art is an original procedural kit (Apache-2.0, `assets/castle-kit/MANIFEST.json`): ten modules, three levels of detail each, merged into at most four meshes per module, with deterministic tonal variation and baked ground-contact shading. It is not bespoke artwork, and frame rate has only been checked in software WebGL, not on real GPUs. After editing the kit, run `pnpm castle:manifest` to refresh its hashes and triangle counts.
 - Accessibility: keyboard paths, focusable 2D graph, text equivalents and reduced motion are implemented; a screen-reader audit and contrast review on real assistive tech have not been done.
 - Not a compliance product. Do not expose the demo publicly with live data.
 

diff --git a/CHANGELOG.md b/CHANGELOG.md
@@ -1,6 +1,24 @@
 # Changelog
 
-## Unreleased (branch `improve/investigation-honesty`): event investigation, honest assessments, import validation
+## Unreleased (on `main`, after 0.3.2)
+
+### Castle visual refresh
+
+- **Architecture.** The gatehouse now has two crenellated towers with slate spires and a crenellated gate walk, the guardhouse gains a round watch turret with a conical roof, and the vault gets corner buttresses. Every module stays inside its catalogued footprint, height and triangle budget, and roof-off still shows each interior floor.
+- **Materials.** A warmer limestone and slate palette, deterministic per-part tonal variation, and baked ground-contact darkening so buildings sit on their terraces. Building colour stays independent of status.
+- **Setting.** The district terraces now sit on a lawn island with earth-banded sides that also covers the paths between districts (no more paving overhanging the edge), with scattered low-poly trees as non-selectable decoration placed outside every district. No walls, moat or perimeter are drawn, since none is implied.
+- **Lighting.** A warmer key light and a deeper ground bounce.
+- **Camera tools.** The castle and graph camera tools sit in one compact row instead of a tall column that covered the scene.
+- **Tooling.** `pnpm castle:manifest` regenerates `assets/castle-kit/MANIFEST.json` (source hashes, per-LOD triangles and bounds, palette).
+- README screenshots re-shot from the offline demo, and the README updated for the redesigned workspaces and keyboard shortcuts.
+
+### Interface redesign (from the owner-provided redesign branch)
+
+- New workspace shell: **Kingdom** (castle and graph), **Investigate** (findings and event search), **Coverage** and **Integrations**, with a shared non-modal inspector and an expandable finding view.
+- Exact evidence cards, bounded expanded timeline lanes, known-time vs. event-time replay with a visible replay scope, grouped districts for large scenes, a relationship chooser for overlapping paths, and labelled neutral-block recovery for module geometry or shader failures.
+- Redesign acceptance suite (`pnpm pilot:redesign`) and verification artifacts under `artifacts/redesign/`.
+
+### Event investigation, honest assessments, import validation (from branch `improve/investigation-honesty`)
 
 - **Event-level investigation.** New read-only, viewer-role `GET /api/projects/:p/events/search` and `GET /api/projects/:p/events/:id`, exposed as the MCP tools `dk_search_events` and `dk_get_event`.
   - Search covers normalized, redacted events in a declared interval of at most 31 days, using exact-match filters only (identity, session, run, request, trace, address, route, rule, source, asset, action, outcome).
@@ -13,7 +31,7 @@
 - **MCP profiles:** `DK_MCP_TOOLS=investigation` now includes event search. `investigation-v1` reproduces the v1 evaluation tool set.
 - **Evaluation:** v1 records and judgments are unchanged. Added: a review note, a read-only citation audit (identifier existence vs. evidence availability vs. claim support), a pending human-review packet, and the predefined v2 plan (`docs/AGENT_EVAL_V2_PLAN.md`).
 
-## Unreleased (branch `pilot/browser-pilot`): controlled browser pilot
+### Controlled browser pilot (from branch `pilot/browser-pilot`)
 
 - **Browser pilot** (`e2e/`, Playwright, CI job `browser-pilot`). Runs the real server and worker on a fresh temp DB, the reference app through the real SDK, the built UI in Chromium, and a stdio MCP client. It covers source-to-screen evidence, human/MCP parity, 3D/2D parity, failed evidence fetches, WebGL fallback, staleness and unknown targets, crash-restart durability and reconnect, proposal-only containment, and untrusted evidence text.
 - **Fix:** if the server became unreachable after a live session, the UI could silently swap in the offline *synthetic* demo. It now keeps the last data and shows a "not live monitoring" banner with the time of the last sync.
